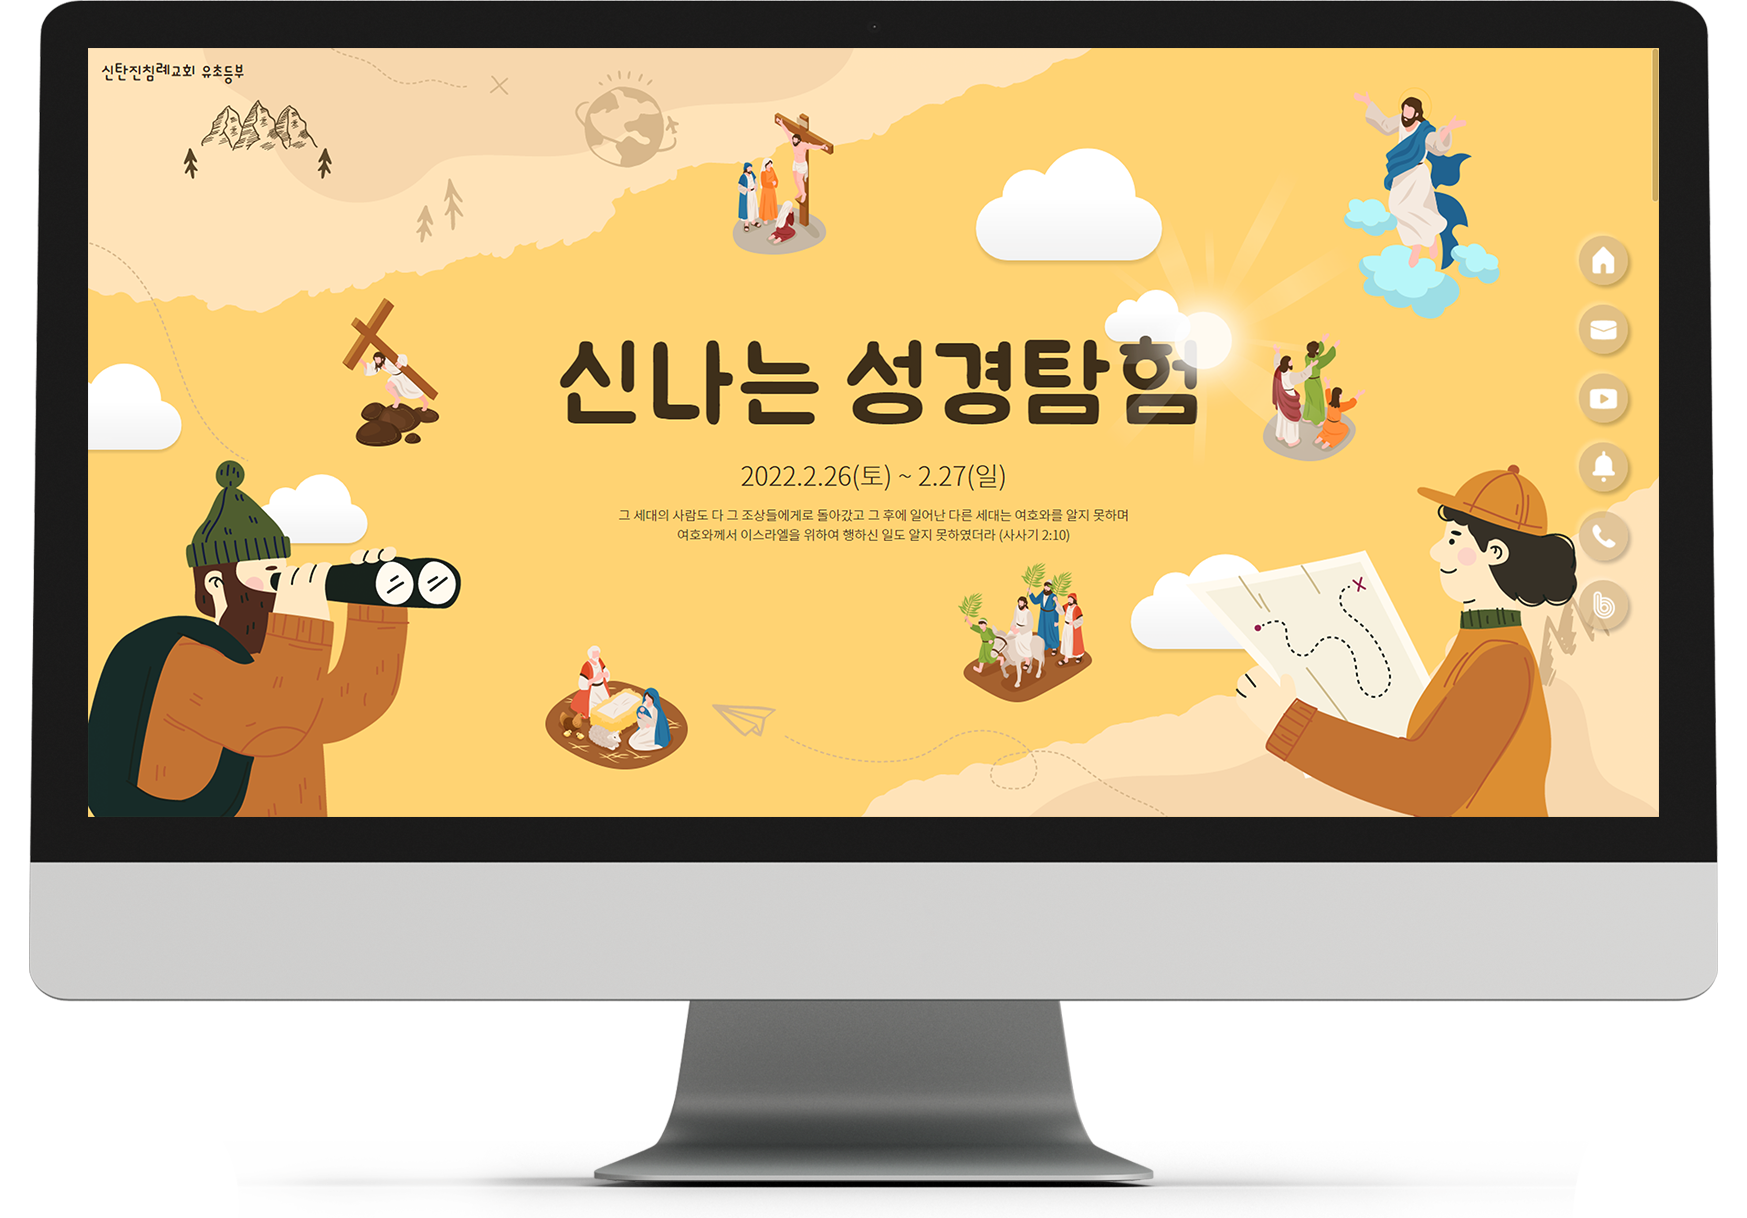
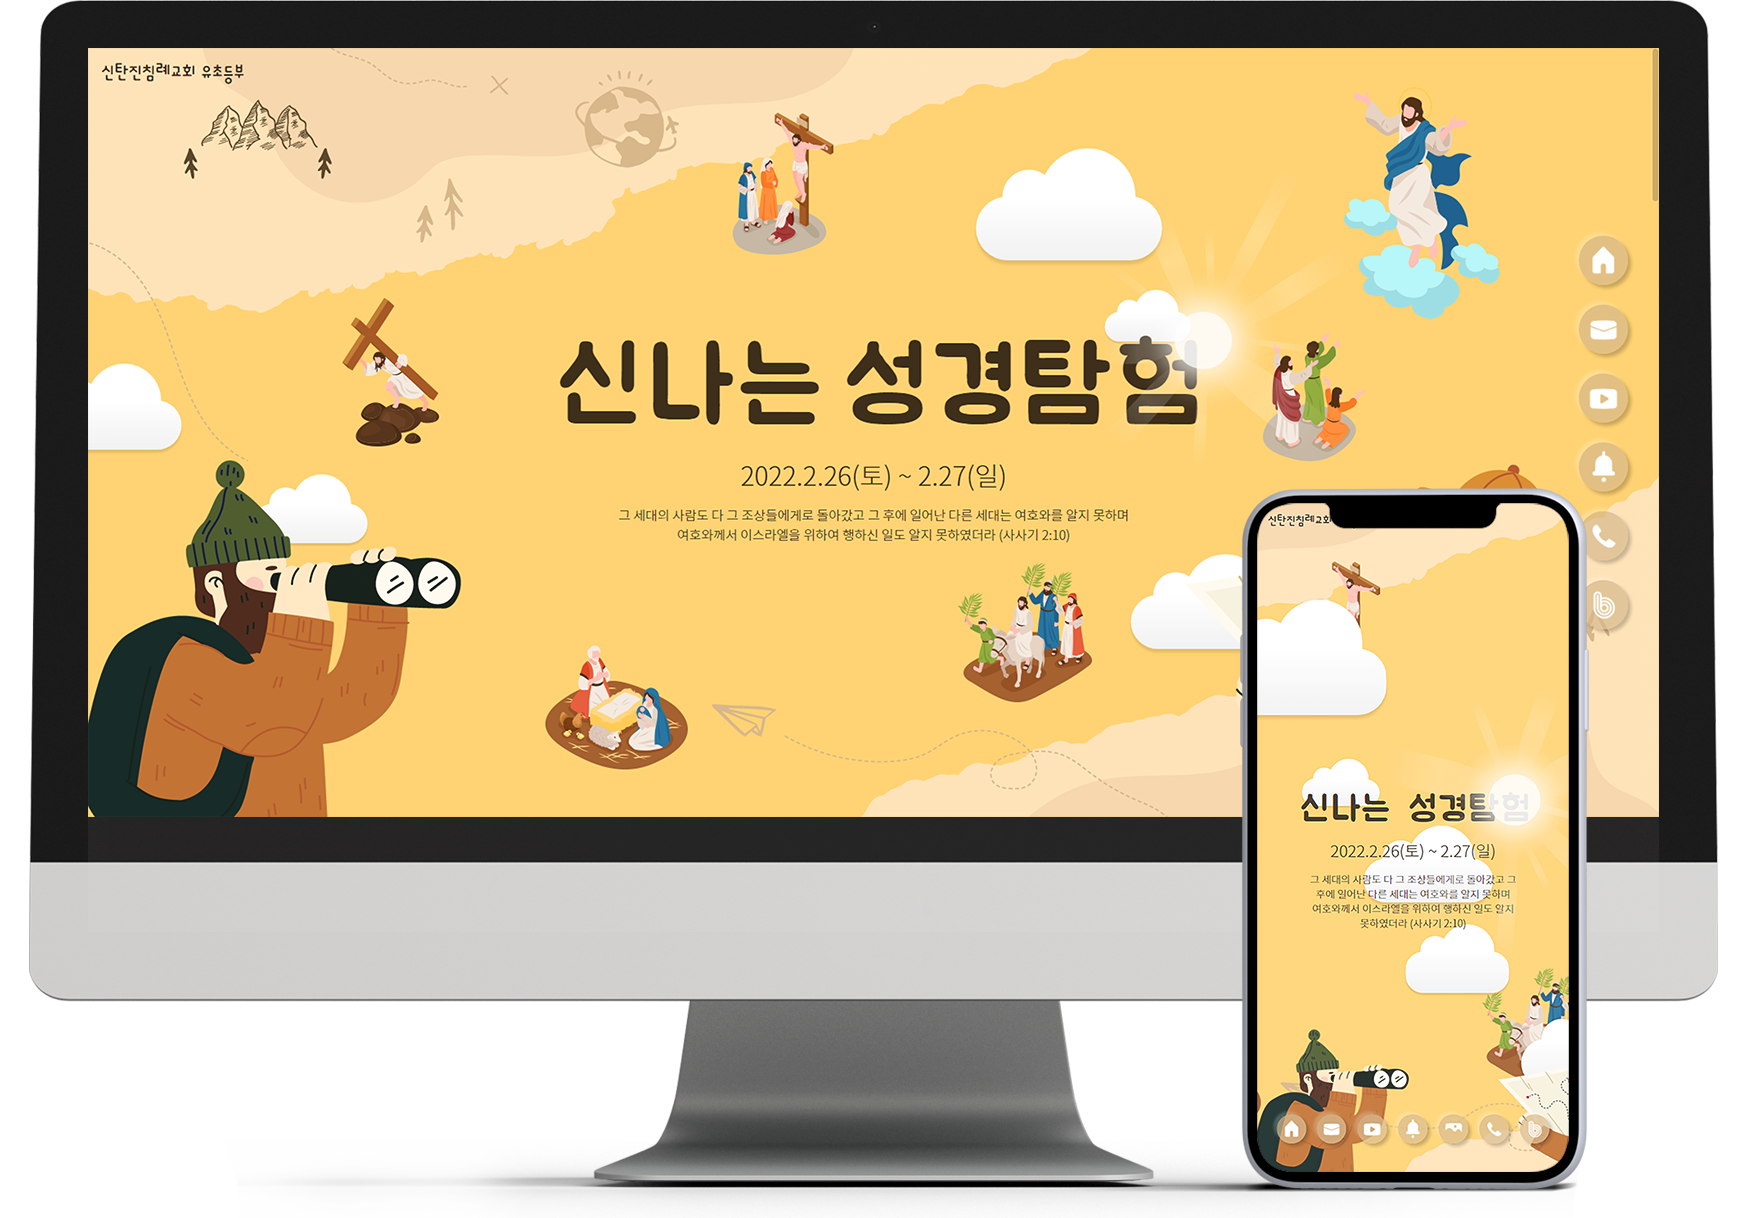
워크 페이지 작업완료

Changed region(s): [[0.6491, 0.3744, 0.9273, 0.9984]]

diff --git a/js/work.js b/js/work.js
@@ -1,0 +1,73 @@
+window.addEventListener('DOMContentLoaded', function() {
+  const sidemenu = document.querySelector('#side-menu');
+
+  console.log(sidemenu.children[0].children);
+
+  const sec = document.querySelectorAll('section'); 
+  const getSecHeight = sec[0].offsetHeight; // 섹션의 오프셋높이값 얻기
+  console.log(getSecHeight);
+  console.dir(document.body);
+
+  // 페이지 진입시 첫째 사이드메뉴 스타일링
+  sidemenu.children[0].children[0].style.width = 5 + "rem";
+  sidemenu.children[0].children[0].style.backgroundColor = '#262626';
+
+  // 사이드메뉴 on 스타일링 함수
+  const sidemenuOnStyle = function (num) {
+    sidemenu.children[num].children[0].style.width = 5 + "rem";
+    sidemenu.children[num].children[0].style.backgroundColor = '#262626';
+  }
+  // 사이드메뉴 off 스타일링 함수
+  const sidemenuOffStyle = function () {
+    for (i=0; i<sidemenu.children.length; i++) {
+      sidemenu.children[i].children[0].style.width = 1.5 + "rem";
+      sidemenu.children[i].children[0].style.backgroundColor = '#26262671';
+    }
+  }
+
+  // 윈도우 스크롤 이벤트
+  window.addEventListener('scroll', function() {
+    console.log(window.scrollY);
+    // 스크롤y값이 섹션1일 때 사이드메뉴 스타일링
+    if (window.scrollY >= getSecHeight * 0 && window.scrollY < getSecHeight * .9) {
+      sidemenuOffStyle();
+      sidemenuOnStyle(0);
+    }
+    // 스크롤y값이 섹션2일 때 사이드메뉴 스타일링
+    if (window.scrollY >= getSecHeight * .9) {
+      sidemenuOffStyle();
+      sidemenuOnStyle(1);
+    }
+    // 스크롤y값이 섹션3일 때 사이드메뉴 스타일링
+    if (window.scrollY >= getSecHeight * 1.8) {
+      sidemenuOffStyle();
+      sidemenuOnStyle(2);
+    }
+  });
+
+
+  // 사이드메뉴 클릭이벤트
+  for (i=0; i<sidemenu.children.length; i++) {
+    sidemenu.children[i].addEventListener('click', function(event) {
+      console.log(event.currentTarget);
+      // 첫번째 막대기 클릭시
+      if (event.currentTarget == sidemenu.children[0]) {
+        sidemenuOffStyle();
+        sidemenuOnStyle(0);
+        window.scrollTo({left:0, top:getSecHeight * 0, behavior:"smooth"});
+      }
+      // 두번째 막대기 클릭시
+      if (event.currentTarget == sidemenu.children[1]) {
+        sidemenuOffStyle();
+        sidemenuOnStyle(0);
+        window.scrollTo({left:0, top:getSecHeight * 1, behavior:"smooth"});
+      }
+      // 세번째 막대기 클릭시
+      if (event.currentTarget == sidemenu.children[2]) {
+        sidemenuOffStyle();
+        sidemenuOnStyle(0);
+        window.scrollTo({left:0, top:getSecHeight * 2, behavior:"smooth"});
+      }
+    });
+  }
+});

diff --git a/work.html b/work.html
@@ -7,6 +7,7 @@
   <link href="./css/reset.css" rel="stylesheet">
   <link href="./css/header.css" rel="stylesheet">
   <link href="./css/work.css" rel="stylesheet">
+  <script src="./js/work.js" defer></script>
   <title>SeongHak Hong</title>
 </head>
 <body>
@@ -84,7 +85,7 @@
           <a href="https://github.com/SeongHak-Hong/viconchat" target="_blank">깃허브</a>
         </div>
         <div class="right">
-          <img src="./img/ghibli_mockup.png" alt="지브리 목업">
+          <img src="./img/viconchat_mockup.png" alt="비콘챗 목업">
         </div>
       </div>
     </section>
@@ -92,6 +93,23 @@
 
 
 
+    <!-- ***사이드메뉴 -->
+    <div id="side-menu" class="fixed">
+      <div>
+        <div></div>
+      </div>
+      <div>
+        <div></div>
+      </div>
+      <div>
+        <div></div>
+      </div>
+    </div>
+
+
+
+
+    <!-- ***푸터 -->
     <footer class="flex justify-content-center align-items-center">
       <p>본 페이지는 상업적 목적이 아닌 개인 포트폴리오용으로 제작되었습니다.
         © 2022 SeongHak Hong. All Rights Reserved.</p>

diff --git a/css/work.css b/css/work.css
@@ -68,3 +68,30 @@ section > div {
 .right img {
   width:100%;
 }
+
+
+
+
+/* ***사이드메뉴 */
+#side-menu {
+  left:5%;
+  top:50%;
+  transform: translateY(-50%);
+}
+/* 사이드메뉴 호버 편하도록 padding값 */
+#side-menu > div {
+  padding:1rem;
+  cursor: pointer;
+}
+/* 사이드메뉴 스타일링 */
+#side-menu div div {
+  width: 1.5rem;
+  padding:.1rem 0;
+  background-color: #26262671;
+  box-sizing: border-box;
+  transition: .3s;
+}
+/* 사이드메뉴 상하간격 */
+#side-menu div ~ div {
+  margin-top: 1rem;
+}
